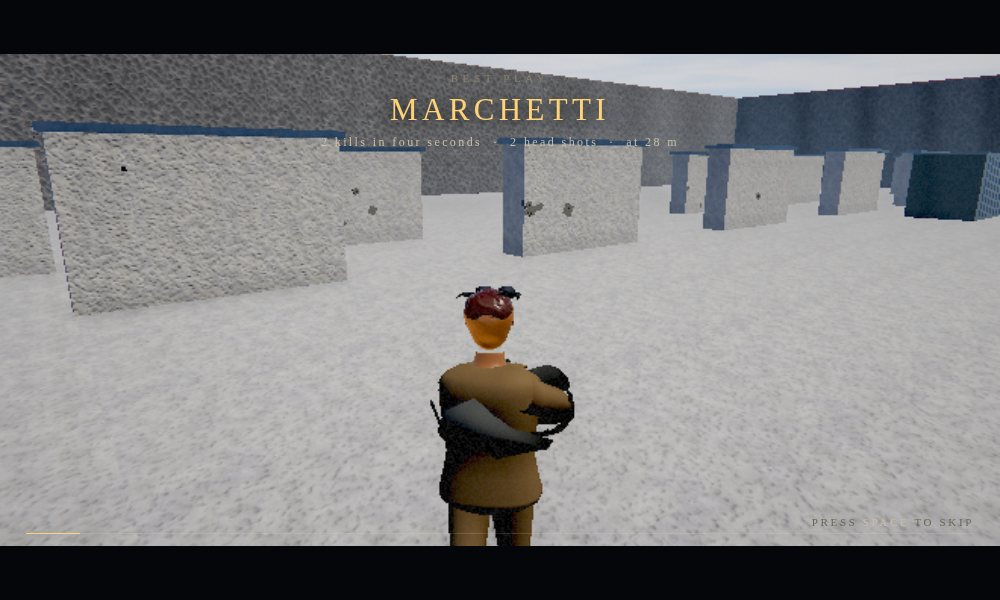
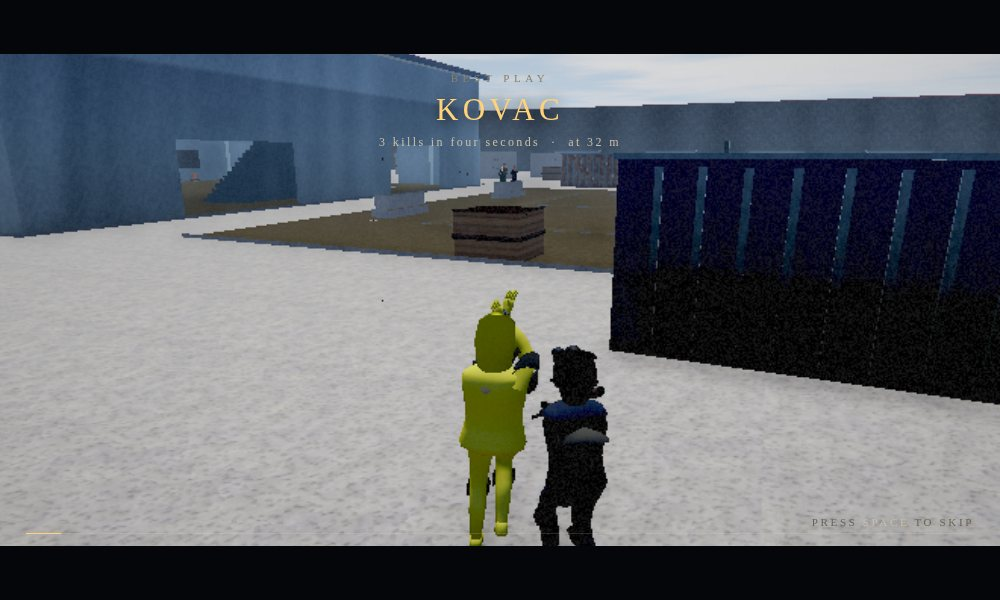
The jump had four bones in it
No pelvis track, so it could not crouch. No foot tracks, so the ankles
could not push -- and a jump with no ankle in it is a man being lifted.
No elbows. No trunk. Four bones: hips, two thighs, two shins, two upper
arms, and the whole of a jump in them.

Five beats now, and the first is the one that sells it. LOAD: the pelvis
drops 105 mm, the knees fold to 60, and the arms swing BACK -- that
anticipation is why a jump reads as effort rather than as a lift. DRIVE:
the legs extend and the ankles come up onto the toes 44 degrees, which
is the entire push. TUCK: knees under him. REACH: legs down, toes first.
ABSORB: the pelvis takes 128 mm out of the landing and gives it back.

The three contact poses -- load, drive, landing -- are solved by
engine/tools/pose-solve.js rather than dialled, so the foot is on the
floor at each of them and not wherever the interpolation left it. The
lowest ankle anywhere in the clip is 3 mm clear of the concrete.

motion 16/16. mpplay 37/0, mpmatch 82/0, killcam 34/0, sightblock 6/0,
operators 16/0, dressed 3/0, anim 8/0, action 20/0, death 7/0, ik 14/0,
gait 32/0.

Claude-Session: https://claude.ai/code/session_01BXTD2qo6UUr9XPCwH59YMP

diff --git a/site/engine/legend-engine.js b/site/engine/legend-engine.js
@@ -10783,18 +10783,66 @@ function makeHumanoidClips() {
     lowerArmR: { keys: [[0.00, -115, 0, 0], [0.35, -62, 0, 0], [1.00, -19, 0, 0]] },
   }, { loop: false }));
 
+  /* THE JUMP, which had four bones in it and no pelvis, no feet, no
+     elbows and no trunk. A man going up came out of a standing pose with
+     his knees bending underneath him and everything else nailed still --
+     no crouch, because the hips had no position track and could not go
+     down; no push, because the ankles had no track and could not
+     plantarflex; no wind-up, because the arms went straight up from rest
+     with nothing behind them.
+
+     A jump is five beats and the first one is the one that sells it.
+     LOAD: the pelvis drops 105 mm, the knees fold to 60, the arms swing
+     BACK. DRIVE: the legs extend and the ankles come up onto the toes
+     44 degrees, which is the whole of the push. TUCK: knees up under
+     him in the air. REACH: the legs go down for the floor, toes first.
+     ABSORB: the pelvis takes 150 mm out of the landing and gives it
+     back. The contact poses are solved by engine/tools/pose-solve.js so
+     the foot is on the floor at load, at drive and at landing, and not
+     wherever the interpolation happened to leave it. */
   clips.push(buildClip('jump', 0.9, {
-    hips: { keys: [[0, 0, 0, 0], [0.2, -14, 0, 0], [0.5, 6, 0, 0], [1, 0, 0, 0]] },
-    /* The crouch before the leap had the knee going BACK and the shin
-       forward, the same inversion the crouch stance had. Thigh 35
-       forward with 85 in the knee is a man loading a jump; 20 and 50
-       in the air is the tuck. */
-    upperLegL: { keys: [[0, 0, 0, 0], [0.2, -21, 0, 0], [0.5, -26, 0, 0], [1, 0, 0, 0]] },
-    upperLegR: { keys: [[0, 0, 0, 0], [0.2, -21, 0, 0], [0.5, -26, 0, 0], [1, 0, 0, 0]] },
-    lowerLegL: { keys: [[0, 0, 0, 0], [0.2, 85, 0, 0], [0.5, 50, 0, 0], [1, 0, 0, 0]] },
-    lowerLegR: { keys: [[0, 0, 0, 0], [0.2, 85, 0, 0], [0.5, 50, 0, 0], [1, 0, 0, 0]] },
-    upperArmL: { keys: [[0, 0, 0, -8], [0.25, -110, 0, -22], [0.6, -70, 0, -18], [1, 0, 0, -8]] },
-    upperArmR: { keys: [[0, 0, 0, 8], [0.25, -110, 0, 22], [0.6, -70, 0, 18], [1, 0, 0, 8]] },
+    hips: {
+      keys: [[0.00, 2, 0, 0], [0.16, 18, 0, 0], [0.28, -2, 0, 0], [0.46, 8, 0, 0],
+        [0.64, 6, 0, 0], [0.80, 8, 0, 0], [0.88, 16, 0, 0], [1.00, 6, 0, 0]],
+      pos: [[0.00, 0, -0.005, 0], [0.16, 0, -0.105, 0], [0.28, 0, 0.030, 0],
+        [0.46, 0, 0.015, 0], [0.64, 0, 0.005, 0], [0.80, 0, -0.020, 0],
+        [0.88, 0, -0.128, 0], [1.00, 0, -0.040, 0]],
+    },
+    spine: { keys: [[0.00, 0, 0, 0], [0.16, -5, 0, 0], [0.28, 2, 0, 0], [0.46, 4, 0, 0],
+      [0.80, 0, 0, 0], [0.88, -5, 0, 0], [1.00, -2, 0, 0]] },
+    chest: { keys: [[0.00, 0, 0, 0], [0.16, -4, 0, 0], [0.28, 3, 0, 0], [0.46, 3, 0, 0],
+      [0.80, 0, 0, 0], [0.88, -4, 0, 0], [1.00, -1, 0, 0]] },
+    /* And the head stays level through all of it, which is what makes a
+       jump read as a body moving rather than a camera being thrown. */
+    neck: { keys: [[0.00, -1, 0, 0], [0.16, -7, 0, 0], [0.28, 1, 0, 0], [0.46, -4, 0, 0],
+      [0.88, -6, 0, 0], [1.00, -3, 0, 0]] },
+    head: { keys: [[0.00, 0, 0, 0], [0.16, -4, 0, 0], [0.28, 0, 0, 0], [0.46, -2, 0, 0],
+      [0.88, -3, 0, 0], [1.00, -1, 0, 0]] },
+
+    upperLegL: { keys: [[0.00, -9.3, 0, 1], [0.16, -49.7, 0, 3], [0.28, -8, 0, 1],
+      [0.46, -52, 0, 4], [0.64, -40, 0, 3], [0.80, -30, 0, 2], [0.88, -58.7, 0, 3], [1.00, -25.4, 0, 1]] },
+    upperLegR: { keys: [[0.00, -9.3, 0, -1], [0.16, -48.0, 0, -3], [0.28, -8, 0, -1],
+      [0.46, -49, 0, -4], [0.64, -38, 0, -3], [0.80, -29, 0, -2], [0.88, -57.0, 0, -3], [1.00, -24.0, 0, -1]] },
+    lowerLegL: { keys: [[0.00, 15, 0, 0], [0.16, 60.2, 0, 0], [0.28, 10, 0, 0],
+      [0.46, 66, 0, 0], [0.64, 40, 0, 0], [0.80, 22, 0, 0], [0.88, 70.1, 0, 0], [1.00, 36.7, 0, 0]] },
+    lowerLegR: { keys: [[0.00, 15, 0, 0], [0.16, 58.4, 0, 0], [0.28, 10, 0, 0],
+      [0.46, 63, 0, 0], [0.64, 38, 0, 0], [0.80, 21, 0, 0], [0.88, 68.0, 0, 0], [1.00, 35.4, 0, 0]] },
+    footL: { keys: [[0.00, -7.7, 0, 0], [0.16, -25, 0, 0], [0.28, 44, 0, 0],
+      [0.46, -16, 0, 0], [0.64, -10, 0, 0], [0.80, -6, 0, 0], [0.88, -25, 0, 0], [1.00, -17.4, 0, 0]] },
+    footR: { keys: [[0.00, -7.7, 0, 0], [0.16, -24, 0, 0], [0.28, 42, 0, 0],
+      [0.46, -15, 0, 0], [0.64, -10, 0, 0], [0.80, -6, 0, 0], [0.88, -24, 0, 0], [1.00, -17.0, 0, 0]] },
+
+    /* The arms go BACK before they go up. Anticipation is the whole of
+       why a jump reads as effort; without it the arms rise out of a
+       standing pose and the man looks lifted rather than launched. */
+    upperArmL: { keys: [[0.00, 0, 0, 8], [0.16, 42, 0, 14], [0.30, -108, 0, 22],
+      [0.60, -68, 0, 18], [0.88, 18, 0, 12], [1.00, 0, 0, 8]] },
+    upperArmR: { keys: [[0.00, 0, 0, -8], [0.16, 40, 0, -14], [0.30, -110, 0, -22],
+      [0.60, -66, 0, -18], [0.88, 16, 0, -12], [1.00, 0, 0, -8]] },
+    lowerArmL: { keys: [[0.00, -13, 0, 0], [0.16, -32, 0, 0], [0.30, -22, 0, 0],
+      [0.60, -40, 0, 0], [0.88, -46, 0, 0], [1.00, -13, 0, 0]] },
+    lowerArmR: { keys: [[0.00, -13, 0, 0], [0.16, -30, 0, 0], [0.30, -24, 0, 0],
+      [0.60, -38, 0, 0], [0.88, -44, 0, 0], [1.00, -13, 0, 0]] },
   }, { loop: false }));
 
   clips.push(buildClip('wave', 1.6, {

diff --git a/engine/src/90-animation.js b/engine/src/90-animation.js
@@ -1346,18 +1346,66 @@ function makeHumanoidClips() {
     lowerArmR: { keys: [[0.00, -115, 0, 0], [0.35, -62, 0, 0], [1.00, -19, 0, 0]] },
   }, { loop: false }));
 
+  /* THE JUMP, which had four bones in it and no pelvis, no feet, no
+     elbows and no trunk. A man going up came out of a standing pose with
+     his knees bending underneath him and everything else nailed still --
+     no crouch, because the hips had no position track and could not go
+     down; no push, because the ankles had no track and could not
+     plantarflex; no wind-up, because the arms went straight up from rest
+     with nothing behind them.
+
+     A jump is five beats and the first one is the one that sells it.
+     LOAD: the pelvis drops 105 mm, the knees fold to 60, the arms swing
+     BACK. DRIVE: the legs extend and the ankles come up onto the toes
+     44 degrees, which is the whole of the push. TUCK: knees up under
+     him in the air. REACH: the legs go down for the floor, toes first.
+     ABSORB: the pelvis takes 150 mm out of the landing and gives it
+     back. The contact poses are solved by engine/tools/pose-solve.js so
+     the foot is on the floor at load, at drive and at landing, and not
+     wherever the interpolation happened to leave it. */
   clips.push(buildClip('jump', 0.9, {
-    hips: { keys: [[0, 0, 0, 0], [0.2, -14, 0, 0], [0.5, 6, 0, 0], [1, 0, 0, 0]] },
-    /* The crouch before the leap had the knee going BACK and the shin
-       forward, the same inversion the crouch stance had. Thigh 35
-       forward with 85 in the knee is a man loading a jump; 20 and 50
-       in the air is the tuck. */
-    upperLegL: { keys: [[0, 0, 0, 0], [0.2, -21, 0, 0], [0.5, -26, 0, 0], [1, 0, 0, 0]] },
-    upperLegR: { keys: [[0, 0, 0, 0], [0.2, -21, 0, 0], [0.5, -26, 0, 0], [1, 0, 0, 0]] },
-    lowerLegL: { keys: [[0, 0, 0, 0], [0.2, 85, 0, 0], [0.5, 50, 0, 0], [1, 0, 0, 0]] },
-    lowerLegR: { keys: [[0, 0, 0, 0], [0.2, 85, 0, 0], [0.5, 50, 0, 0], [1, 0, 0, 0]] },
-    upperArmL: { keys: [[0, 0, 0, -8], [0.25, -110, 0, -22], [0.6, -70, 0, -18], [1, 0, 0, -8]] },
-    upperArmR: { keys: [[0, 0, 0, 8], [0.25, -110, 0, 22], [0.6, -70, 0, 18], [1, 0, 0, 8]] },
+    hips: {
+      keys: [[0.00, 2, 0, 0], [0.16, 18, 0, 0], [0.28, -2, 0, 0], [0.46, 8, 0, 0],
+        [0.64, 6, 0, 0], [0.80, 8, 0, 0], [0.88, 16, 0, 0], [1.00, 6, 0, 0]],
+      pos: [[0.00, 0, -0.005, 0], [0.16, 0, -0.105, 0], [0.28, 0, 0.030, 0],
+        [0.46, 0, 0.015, 0], [0.64, 0, 0.005, 0], [0.80, 0, -0.020, 0],
+        [0.88, 0, -0.128, 0], [1.00, 0, -0.040, 0]],
+    },
+    spine: { keys: [[0.00, 0, 0, 0], [0.16, -5, 0, 0], [0.28, 2, 0, 0], [0.46, 4, 0, 0],
+      [0.80, 0, 0, 0], [0.88, -5, 0, 0], [1.00, -2, 0, 0]] },
+    chest: { keys: [[0.00, 0, 0, 0], [0.16, -4, 0, 0], [0.28, 3, 0, 0], [0.46, 3, 0, 0],
+      [0.80, 0, 0, 0], [0.88, -4, 0, 0], [1.00, -1, 0, 0]] },
+    /* And the head stays level through all of it, which is what makes a
+       jump read as a body moving rather than a camera being thrown. */
+    neck: { keys: [[0.00, -1, 0, 0], [0.16, -7, 0, 0], [0.28, 1, 0, 0], [0.46, -4, 0, 0],
+      [0.88, -6, 0, 0], [1.00, -3, 0, 0]] },
+    head: { keys: [[0.00, 0, 0, 0], [0.16, -4, 0, 0], [0.28, 0, 0, 0], [0.46, -2, 0, 0],
+      [0.88, -3, 0, 0], [1.00, -1, 0, 0]] },
+
+    upperLegL: { keys: [[0.00, -9.3, 0, 1], [0.16, -49.7, 0, 3], [0.28, -8, 0, 1],
+      [0.46, -52, 0, 4], [0.64, -40, 0, 3], [0.80, -30, 0, 2], [0.88, -58.7, 0, 3], [1.00, -25.4, 0, 1]] },
+    upperLegR: { keys: [[0.00, -9.3, 0, -1], [0.16, -48.0, 0, -3], [0.28, -8, 0, -1],
+      [0.46, -49, 0, -4], [0.64, -38, 0, -3], [0.80, -29, 0, -2], [0.88, -57.0, 0, -3], [1.00, -24.0, 0, -1]] },
+    lowerLegL: { keys: [[0.00, 15, 0, 0], [0.16, 60.2, 0, 0], [0.28, 10, 0, 0],
+      [0.46, 66, 0, 0], [0.64, 40, 0, 0], [0.80, 22, 0, 0], [0.88, 70.1, 0, 0], [1.00, 36.7, 0, 0]] },
+    lowerLegR: { keys: [[0.00, 15, 0, 0], [0.16, 58.4, 0, 0], [0.28, 10, 0, 0],
+      [0.46, 63, 0, 0], [0.64, 38, 0, 0], [0.80, 21, 0, 0], [0.88, 68.0, 0, 0], [1.00, 35.4, 0, 0]] },
+    footL: { keys: [[0.00, -7.7, 0, 0], [0.16, -25, 0, 0], [0.28, 44, 0, 0],
+      [0.46, -16, 0, 0], [0.64, -10, 0, 0], [0.80, -6, 0, 0], [0.88, -25, 0, 0], [1.00, -17.4, 0, 0]] },
+    footR: { keys: [[0.00, -7.7, 0, 0], [0.16, -24, 0, 0], [0.28, 42, 0, 0],
+      [0.46, -15, 0, 0], [0.64, -10, 0, 0], [0.80, -6, 0, 0], [0.88, -24, 0, 0], [1.00, -17.0, 0, 0]] },
+
+    /* The arms go BACK before they go up. Anticipation is the whole of
+       why a jump reads as effort; without it the arms rise out of a
+       standing pose and the man looks lifted rather than launched. */
+    upperArmL: { keys: [[0.00, 0, 0, 8], [0.16, 42, 0, 14], [0.30, -108, 0, 22],
+      [0.60, -68, 0, 18], [0.88, 18, 0, 12], [1.00, 0, 0, 8]] },
+    upperArmR: { keys: [[0.00, 0, 0, -8], [0.16, 40, 0, -14], [0.30, -110, 0, -22],
+      [0.60, -66, 0, -18], [0.88, 16, 0, -12], [1.00, 0, 0, -8]] },
+    lowerArmL: { keys: [[0.00, -13, 0, 0], [0.16, -32, 0, 0], [0.30, -22, 0, 0],
+      [0.60, -40, 0, 0], [0.88, -46, 0, 0], [1.00, -13, 0, 0]] },
+    lowerArmR: { keys: [[0.00, -13, 0, 0], [0.16, -30, 0, 0], [0.30, -24, 0, 0],
+      [0.60, -38, 0, 0], [0.88, -44, 0, 0], [1.00, -13, 0, 0]] },
   }, { loop: false }));
 
   clips.push(buildClip('wave', 1.6, {
